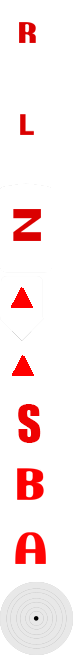
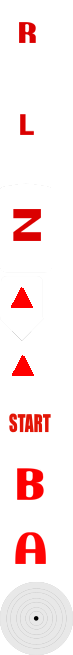
Add files via upload

Changed region(s): [[0.1096, 0.6107, 0.6849, 0.7023]]

diff --git a/UltraMini.css b/UltraMini.css
@@ -88,15 +88,15 @@
     left: 64px;
 }
 
-/* We're using the node used for a controller's system button here */
+/* Start button */
 .custom .meta{
     background: url(https://techmandylan.github.io/UltraMiniButtons.png);
     width: 55px;
     height: 55px;
-    background-position-y: -282px;
+    background-position-y: -393px;
     position: absolute;
-    left: 377px;
-    top: 344px
+    left: 361px;
+    top: 59px
 }
 
 .custom .abxy{
